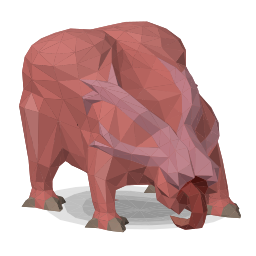
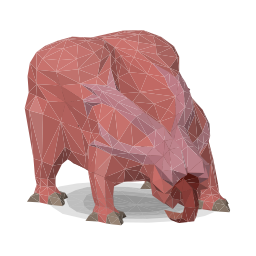
feat(assets): cache-rendered NPC statics — bestiary, pets, TzHaar, snail, larva
render-osrs-npcs.mjs now renders through the shared rs-raster (client backface
culling, real cache textures with the face-lightness rule, unsigned alpha)
instead of its own older rasteriser copy, and its bestiary targets read the
exact NPC ids from enemy-anims.config.json so every static portrait matches
the animated model on the map.

47 new baked portraits in public/assets/models/, replacing the last NPC wiki
hot-links in ASSETS: all 28 bestiary enemies, 12 skilling/boss pets (variant
matched to the old art: tanzanite snakeling, fire rift guardian, serpentine
ikkle hydra, 2nd-form kalphite princess), the 4 TzHaar tower tier icons, the
Giant snail "slow" debuff icon and the Kalphite Larva swarm icon (new
`npcModel()` helper; affixes + wave-events rewired).

tsc + 268 tests + build green.

Changed region(s): [[0.0625, 0.0625, 0.9375, 0.9062]]

diff --git a/lib/game/assets.ts b/lib/game/assets.ts
@@ -9,6 +9,10 @@ const LOCAL = `${process.env.NEXT_PUBLIC_BASE_PATH || ''}/assets`;
  *  (scripts/render-osrs-items.mjs → public/assets/items/<slug>.png). */
 export const itemIcon = (slug: string) => `${LOCAL}/items/${slug}.png`;
 
+/** Cache-rendered NPC model portrait
+ *  (scripts/render-osrs-npcs.mjs → public/assets/models/<slug>.png). */
+export const npcModel = (slug: string) => `${LOCAL}/models/${slug}.png`;
+
 /**
  * Wiki-filename → locally-baked icon. Data tables (GE shop, slayer rewards,
  * meta upgrades) key icons by wiki filename; `iconUrl` resolves them to the
@@ -150,55 +154,56 @@ for (const t of DEATH_TYPES) DEATH_SOUNDS[t] = `${SND}/death_${t}.wav`;
 
 export const ASSETS = {
   spells: SPELL_ICONS,
+  // Enemy & pet portraits — NPC models rendered from the game cache
+  // (scripts/render-osrs-npcs.mjs, same NPC ids as the animated clips),
+  // served locally from public/assets/models/.
   enemies: {
-    goblin: 'https://oldschool.runescape.wiki/images/Goblin.png',
-    rat: 'https://oldschool.runescape.wiki/images/Giant_rat.png',
-    cow: 'https://oldschool.runescape.wiki/images/Cow_%281%29.png',
-    imp: 'https://oldschool.runescape.wiki/images/Imp.png',
-    spider: 'https://oldschool.runescape.wiki/images/Spider.png',
-    scorpion: 'https://oldschool.runescape.wiki/images/Scorpion.png',
-    hill_giant: 'https://oldschool.runescape.wiki/images/Hill_Giant.png',
-    lesser_demon: 'https://oldschool.runescape.wiki/images/Lesser_demon.png',
-    green_dragon: 'https://oldschool.runescape.wiki/images/Green_dragon.png',
-    blue_dragon: 'https://oldschool.runescape.wiki/images/Blue_dragon.png',
-    black_demon: 'https://oldschool.runescape.wiki/images/Black_demon.png',
-    abyssal_demon: 'https://oldschool.runescape.wiki/images/Abyssal_demon.png',
-    barrow_wight: 'https://oldschool.runescape.wiki/images/Dharok_the_Wretched.png',
-    chaos_druid: 'https://oldschool.runescape.wiki/images/Chaos_druid.png',
-    skeletal_mage: 'https://oldschool.runescape.wiki/images/Skeleton_Mage_%28lv_16%29.png',
-    skeleton: 'https://oldschool.runescape.wiki/images/Skeleton_%28level_22%2C_3%29.png',
-    zombie: 'https://oldschool.runescape.wiki/images/Zombie_%28Level_13%2C_14%29.png',
-    ghost: 'https://oldschool.runescape.wiki/images/Ghost.png',
-    hellhound: 'https://oldschool.runescape.wiki/images/Hellhound.png',
-    fire_giant: 'https://oldschool.runescape.wiki/images/Fire_giant.png',
-    bloodveld: 'https://oldschool.runescape.wiki/images/Bloodveld.png',
-    gargoyle: 'https://oldschool.runescape.wiki/images/Gargoyle.png',
-    nechryael: 'https://oldschool.runescape.wiki/images/Nechryael.png',
-    dark_beast: 'https://oldschool.runescape.wiki/images/Dark_beast.png',
-    hydra: 'https://oldschool.runescape.wiki/images/Hydra.png',
-    jad: 'https://oldschool.runescape.wiki/images/TzTok-Jad.png',
-    vorkath: 'https://oldschool.runescape.wiki/images/Vorkath.png',
-    zulrah: 'https://oldschool.runescape.wiki/images/Zulrah_%28serpentine%29.png',
-    // Superior slayer variants (Bigger and Badder) — NPC models rendered from
-    // the game cache (scripts/render-osrs-npcs.mjs), served locally.
+    goblin: `${LOCAL}/models/goblin.png`,
+    rat: `${LOCAL}/models/rat.png`,
+    cow: `${LOCAL}/models/cow.png`,
+    imp: `${LOCAL}/models/imp.png`,
+    spider: `${LOCAL}/models/spider.png`,
+    scorpion: `${LOCAL}/models/scorpion.png`,
+    hill_giant: `${LOCAL}/models/hill_giant.png`,
+    lesser_demon: `${LOCAL}/models/lesser_demon.png`,
+    green_dragon: `${LOCAL}/models/green_dragon.png`,
+    blue_dragon: `${LOCAL}/models/blue_dragon.png`,
+    black_demon: `${LOCAL}/models/black_demon.png`,
+    abyssal_demon: `${LOCAL}/models/abyssal_demon.png`,
+    barrow_wight: `${LOCAL}/models/barrow_wight.png`,   // Dharok the Wretched
+    chaos_druid: `${LOCAL}/models/chaos_druid.png`,
+    skeletal_mage: `${LOCAL}/models/skeletal_mage.png`,
+    skeleton: `${LOCAL}/models/skeleton.png`,
+    zombie: `${LOCAL}/models/zombie.png`,
+    ghost: `${LOCAL}/models/ghost.png`,
+    hellhound: `${LOCAL}/models/hellhound.png`,
+    fire_giant: `${LOCAL}/models/fire_giant.png`,
+    bloodveld: `${LOCAL}/models/bloodveld.png`,
+    gargoyle: `${LOCAL}/models/gargoyle.png`,
+    nechryael: `${LOCAL}/models/nechryael.png`,
+    dark_beast: `${LOCAL}/models/dark_beast.png`,
+    hydra: `${LOCAL}/models/hydra.png`,
+    jad: `${LOCAL}/models/jad.png`,                     // TzTok-Jad
+    vorkath: `${LOCAL}/models/vorkath.png`,
+    zulrah: `${LOCAL}/models/zulrah.png`,               // serpentine
     superior_bloodveld: `${LOCAL}/models/superior_bloodveld.png`,         // Insatiable Bloodveld
     superior_abyssal_demon: `${LOCAL}/models/superior_abyssal_demon.png`, // Greater abyssal demon
     superior_gargoyle: `${LOCAL}/models/superior_gargoyle.png`,           // Marble gargoyle
     superior_nechryael: `${LOCAL}/models/superior_nechryael.png`,         // Nechryarch
   },
   pets: {
-    beaver: 'https://oldschool.runescape.wiki/images/Beaver.png',
-    rock_golem: 'https://oldschool.runescape.wiki/images/Rock_golem.png',
-    tangleroot: 'https://oldschool.runescape.wiki/images/Tangleroot.png',
-    heron: 'https://oldschool.runescape.wiki/images/Heron.png',
-    rift_guardian: 'https://oldschool.runescape.wiki/images/Rift_guardian_%28follower%2C_fire%29.png',
-    baby_mole: 'https://oldschool.runescape.wiki/images/Baby_mole.png',
-    vorki: 'https://oldschool.runescape.wiki/images/Vorki.png',
-    snakeling: 'https://oldschool.runescape.wiki/images/Snakeling_%28tanzanite%29.png',
-    prince_black_dragon: 'https://oldschool.runescape.wiki/images/Prince_black_dragon.png',
-    kalphite_princess: 'https://oldschool.runescape.wiki/images/Kalphite_Princess_2nd_form.png',
-    tzrek_jad: 'https://oldschool.runescape.wiki/images/TzRek-Jad.png',
-    ikkle_hydra: 'https://oldschool.runescape.wiki/images/Ikkle_Hydra_%28serpentine%29.png',
+    beaver: `${LOCAL}/models/beaver.png`,
+    rock_golem: `${LOCAL}/models/rock_golem.png`,
+    tangleroot: `${LOCAL}/models/tangleroot.png`,
+    heron: `${LOCAL}/models/heron.png`,
+    rift_guardian: `${LOCAL}/models/rift_guardian.png`, // fire variant
+    baby_mole: `${LOCAL}/models/baby_mole.png`,
+    vorki: `${LOCAL}/models/vorki.png`,
+    snakeling: `${LOCAL}/models/snakeling.png`,         // tanzanite
+    prince_black_dragon: `${LOCAL}/models/prince_black_dragon.png`,
+    kalphite_princess: `${LOCAL}/models/kalphite_princess.png`, // 2nd form
+    tzrek_jad: `${LOCAL}/models/tzrek_jad.png`,
+    ikkle_hydra: `${LOCAL}/models/ikkle_hydra.png`,     // serpentine
   },
   // Prayer icons — cache-extracted sprites served locally (PRAYER_* sprite ids).
   prayers: {
@@ -263,10 +268,11 @@ export const ASSETS = {
       4: itemIcon('emberlight'),
     },
     tzhaar: {
-      1: 'https://oldschool.runescape.wiki/images/TzHaar-Hur.png',
-      2: 'https://oldschool.runescape.wiki/images/TzHaar-Mej.png',
-      3: 'https://oldschool.runescape.wiki/images/TzHaar-Xil_%28sword%29.png',
-      4: 'https://oldschool.runescape.wiki/images/TzHaar-Ket_%28level_149%29.png',
+      // Cache-rendered NPC models (scripts/render-osrs-npcs.mjs).
+      1: `${LOCAL}/models/tzhaar_hur.png`,
+      2: `${LOCAL}/models/tzhaar_mej.png`,
+      3: `${LOCAL}/models/tzhaar_xil.png`, // sword variant
+      4: `${LOCAL}/models/tzhaar_ket.png`,
     },
     toxic: {
       1: itemIcon('tanzanite_fang'),
@@ -347,10 +353,10 @@ export const ASSETS = {
   },
   // Status-effect icons for the enemy hover panel (OSRS spell/status sprites).
   debuffs: {
-    // slow = Giant snail, an NPC *model* (not a 2D sprite) — stays hot-linked
-    // until the model-render track lands. The rest are cache-extracted sprites
+    // slow = Giant snail, an NPC *model* rendered from the cache
+    // (scripts/render-osrs-npcs.mjs). The rest are cache-extracted sprites
     // (scripts/extract-osrs-sprites.mjs), served locally from public/.
-    slow: 'https://oldschool.runescape.wiki/images/Giant_snail.png',
+    slow: `${LOCAL}/models/giant_snail.png`,
     stun: `${LOCAL}/debuffs/stun.png`, // SPELL_ENTANGLE (321)
     burn: `${LOCAL}/debuffs/burn.png`, // Burn hitsplat (1361)
     poison: `${LOCAL}/debuffs/poison.png`, // HITSPLAT_GREEN_POISON (1360)

diff --git a/lib/game/systems/affixes.ts b/lib/game/systems/affixes.ts
@@ -1,4 +1,4 @@
-import { ASSETS, itemIcon } from '../assets';
+import { ASSETS, itemIcon, npcModel } from '../assets';
 import type { CombatStyle } from '../types';
 
 /**
@@ -41,7 +41,7 @@ export const AFFIX_DEFS: Record<EnemyAffix, AffixDef> = {
   shielded:     { id: 'shielded',     name: 'Shielded',     desc: 'Absorbs a shield of damage before its health is touched.', color: '#7fd0ff', icon: itemIcon('rune_kiteshield') },
   armored:      { id: 'armored',      name: 'Armored',      desc: 'Takes half damage from one combat style — bring another.', color: '#9aa0a8', icon: itemIcon('dragon_platebody') },
   regenerating: { id: 'regenerating', name: 'Regenerating', desc: 'Heals over time — finish it fast or it claws health back.', color: '#57d957', icon: itemIcon('regen_bracelet') },
-  swarm:        { id: 'swarm',        name: 'Swarm',        desc: 'Arrives as a pack of weaker copies — bring area damage.', color: '#b6d957', icon: `${W}Kalphite_Larva.png` },
+  swarm:        { id: 'swarm',        name: 'Swarm',        desc: 'Arrives as a pack of weaker copies — bring area damage.', color: '#b6d957', icon: npcModel('kalphite_larva') },
   hasted:       { id: 'hasted',       name: 'Hasted',       desc: 'Moves much faster — your coverage gaps will show.', color: '#cfe8ff', icon: itemIcon('graceful_boots') },
   warded:       { id: 'warded',       name: 'Warded',       desc: 'Immune to slows, stuns and freezes.', color: '#b07cff', icon: itemIcon('spirit_shield') },
   volatile:     { id: 'volatile',     name: 'Volatile',     desc: 'Detonates on death, briefly disabling the nearest tower.', color: '#ff7a3c', icon: itemIcon('volatile_orb') },

diff --git a/lib/game/systems/wave-events.ts b/lib/game/systems/wave-events.ts
@@ -1,4 +1,4 @@
-import { ASSETS, itemIcon } from '../assets';
+import { ASSETS, itemIcon, npcModel } from '../assets';
 
 /**
  * Wave events (#1): occasional *global* rule-benders announced at the start of a
@@ -83,7 +83,7 @@ export const WAVE_EVENTS: readonly WaveEvent[] = [
     icon: ASSETS.spells['Curse'], effect: { towerDamageMult: 0.8 } },
   { id: 'infestation', name: 'Infestation', tone: 'hazard', color: '#b6d957', weight: 16,
     desc: 'An infestation swells the horde with frail, numberless stragglers.',
-    icon: `${W}Kalphite_Larva.png`, effect: { enemyCountMult: 1.6, enemyHpMult: 0.6 } },
+    icon: npcModel('kalphite_larva'), effect: { enemyCountMult: 1.6, enemyHpMult: 0.6 } },
 
   // ───────────────────────────── risk / reward ────────────────────────────
   { id: 'blood_moon', name: 'Blood Moon', tone: 'hazard', color: '#c0392b', weight: 10,
